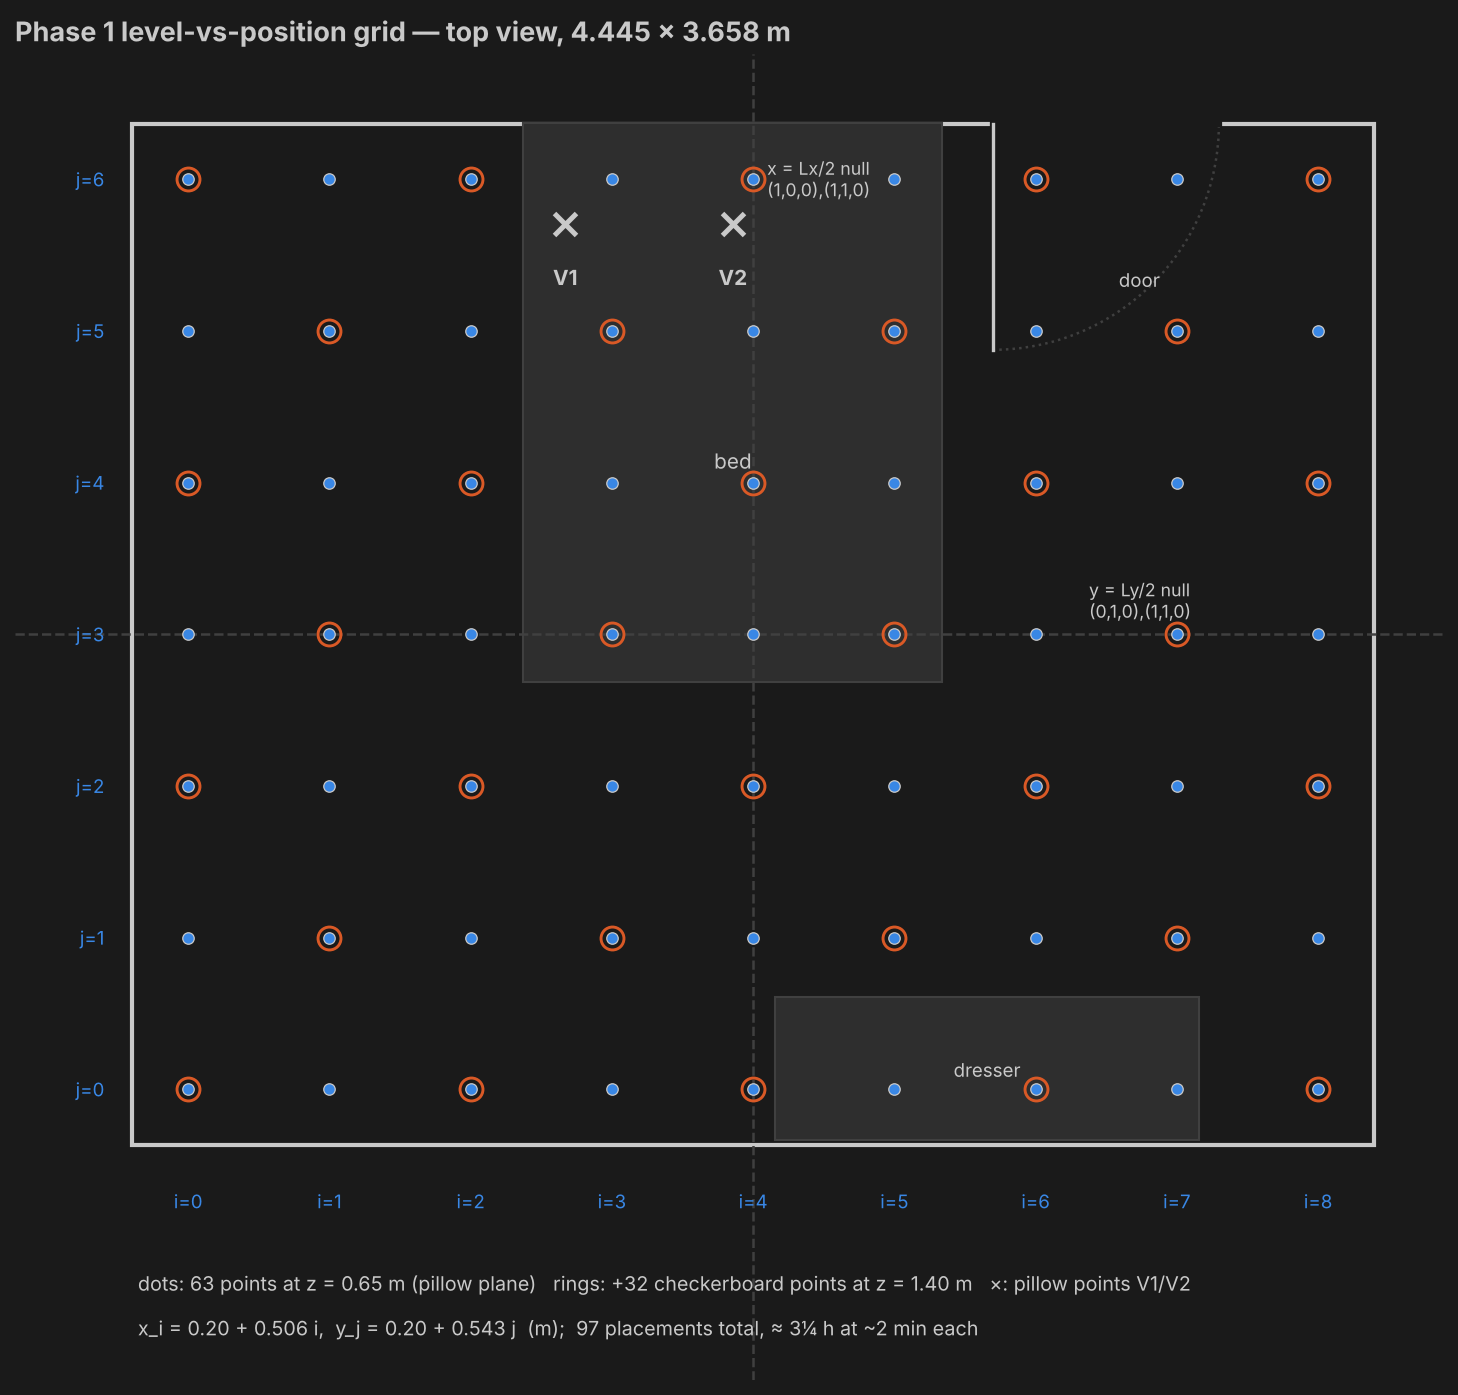
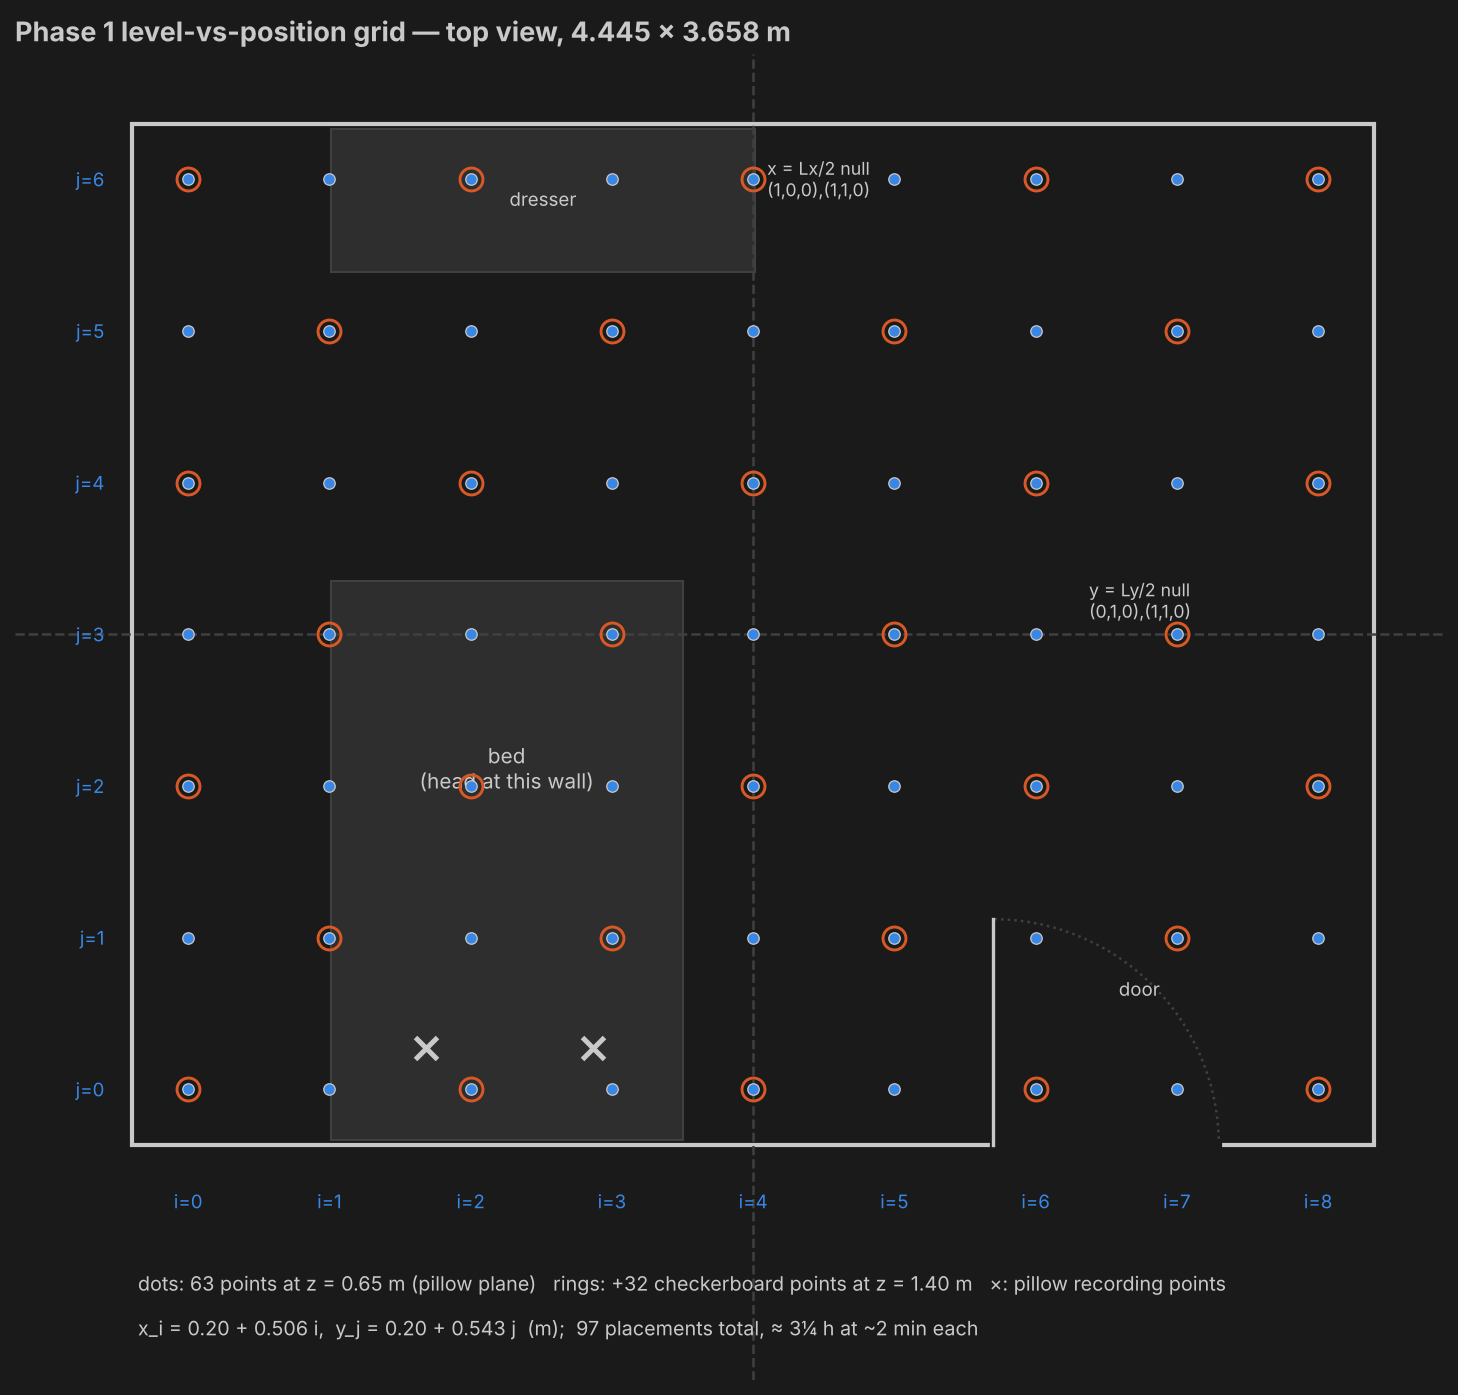
Correct furniture and door on the measurement grid
Per Madi: bed headboard at the y=0 wall spanning i=1 to ~i=3.5, dresser
at the y=Ly wall spanning i=1 to i=4, door on the y=0 wall at i=6..i=7.
Pillow recording points moved to the actual bed head; manifest updated.
This mirrors layout.qmd / room_layout.py in y -- the site layout is left
untouched pending the orientation question.

Claude-Session: https://claude.ai/code/session_016Kdn8B1reQt22sCKZBCnQa

diff --git a/scripts/measurement_grid.py b/scripts/measurement_grid.py
@@ -27,8 +27,8 @@ gives ~3 points per half-wavelength along x (Lx/3 = 1.48 m) and y, well
 inside the ~0.74 m Nyquist bound for nx = 3.
 
 Placements: the full 9x7 = 63 points at z = 0.65 m, a 32-point
-checkerboard ((i+j) even) at z = 1.40 m, plus the two pillow points
-V1/V2 -- 97 single-mic placements, ~3h15 at ~2 min each, splittable by
+checkerboard ((i+j) even) at z = 1.40 m, plus the two pillow recording
+points -- 97 single-mic placements, ~3h15 at ~2 min each, splittable by
 height pass.
 """
 import csv
@@ -49,13 +49,19 @@ DX = (LX - 2 * DELTA) / (NX - 1)
 DY = (LY - 2 * DELTA) / (NY - 1)
 HEIGHTS = (0.65, 1.40)         # z_k (m): pillow plane, near-null plane
 
-# pillow virtual points V1/V2 (layout.qmd / scripts/room_layout.py)
-PILLOWS = {"V1": (1.55, 3.30, 0.65), "V2": (2.15, 3.30, 0.65)}
+# Furniture per Madi (2026-10-17): bed headboard at the y = 0 wall
+# spanning i=1 to ~i=3.5; dresser at the y = Ly wall spanning i=1 to i=4;
+# door on the y = 0 wall spanning i=6..i=7. NOTE: this mirrors layout.qmd /
+# scripts/room_layout.py (bed head at y = Ly there) -- reconcile the site
+# layout once the orientation question is settled.
+BED = (0.71, 0.02, 1.26, 2.00)        # x, y, w, h
+DRESSER = (0.71, LY - 0.53, 1.52, 0.51)
 
-# door: per Madi (2026-10-17) it spans roughly the i=6..i=7 columns
-# (x ~ 3.2-3.7 m). The y = 0 stretch there is the dresser, so the door is
-# drawn on the y = Ly wall: 0.81 m leaf centred on that span, hinge at the
-# left jamb, swinging inward.
+# pillow recording points at the actual bed head (y = 0 wall)
+PILLOWS = {"left": (1.05, 0.35, 0.65), "right": (1.65, 0.35, 0.65)}
+
+# door on the y = 0 wall: 0.81 m leaf centred on the i=6..i=7 span,
+# hinge at the left jamb, swinging inward.
 DOOR_HINGE, DOOR_W = 3.08, 0.81
 
 
@@ -74,9 +80,9 @@ def write_manifest(path):
         w = csv.writer(fh)
         w.writerow(["file", "tag", "x", "y", "z", "cal_file", "notes"])
         for name, (x, y, z) in PILLOWS.items():
-            w.writerow([f"pillow-{name.lower()}.wav", "pillow",
+            w.writerow([f"pillow-{name}.wav", "pillow",
                         f"{x:.3f}", f"{y:.3f}", f"{z:.2f}",
-                        "umik1-SERIAL.txt", f"pillow point {name}"])
+                        "umik1-SERIAL.txt", f"{name} pillow"])
         for i, j, k, x, y, z in grid_points():
             w.writerow([f"grid-i{i}j{j}-z{int(round(z * 100)):03d}.wav",
                         "grid", f"{x:.3f}", f"{y:.3f}", f"{z:.2f}",
@@ -89,22 +95,21 @@ def draw(path):
     ax.set_facecolor(BG)
     ax.add_patch(Rectangle((0, 0), LX, LY, fill=False, ec=INK, lw=2))
 
-    bed = Rectangle((1.40, 1.66), 1.5, 2.0, fc=SOFT, ec=GRID, lw=1)
-    dresser = Rectangle((2.30, 0.02), 1.52, 0.51, fc=SOFT, ec=GRID, lw=1)
-    ax.add_patch(bed)
-    ax.add_patch(dresser)
-    ax.text(2.15, 2.45, "bed", ha="center", va="center", color=INK,
-            fontsize=10)
-    ax.text(3.06, 0.27, "dresser", ha="center", va="center", color=INK,
-            fontsize=9)
+    ax.add_patch(Rectangle(BED[:2], BED[2], BED[3], fc=SOFT, ec=GRID, lw=1))
+    ax.add_patch(Rectangle(DRESSER[:2], DRESSER[2], DRESSER[3], fc=SOFT,
+                           ec=GRID, lw=1))
+    ax.text(BED[0] + BED[2] / 2, 1.35, "bed\n(head at this wall)",
+            ha="center", va="center", color=INK, fontsize=10)
+    ax.text(DRESSER[0] + DRESSER[2] / 2, LY - 0.27, "dresser", ha="center",
+            va="center", color=INK, fontsize=9)
 
-    # door on the y = Ly wall, spanning roughly the i=6..i=7 columns
-    ax.plot([DOOR_HINGE, DOOR_HINGE + DOOR_W], [LY, LY], color=BG, lw=3,
+    # door on the y = 0 wall, spanning roughly the i=6..i=7 columns
+    ax.plot([DOOR_HINGE, DOOR_HINGE + DOOR_W], [0, 0], color=BG, lw=3,
             zorder=2)
-    ax.plot([DOOR_HINGE, DOOR_HINGE], [LY - DOOR_W, LY], color=INK, lw=1.6)
-    ax.add_patch(Arc((DOOR_HINGE, LY), 2 * DOOR_W, 2 * DOOR_W, angle=0,
-                     theta1=270, theta2=360, ec=GRID, ls=":", lw=1.2))
-    ax.text(DOOR_HINGE + DOOR_W / 2 + 0.12, LY - 0.56, "door", ha="center",
+    ax.plot([DOOR_HINGE, DOOR_HINGE], [0, DOOR_W], color=INK, lw=1.6)
+    ax.add_patch(Arc((DOOR_HINGE, 0), 2 * DOOR_W, 2 * DOOR_W, angle=0,
+                     theta1=0, theta2=90, ec=GRID, ls=":", lw=1.2))
+    ax.text(DOOR_HINGE + DOOR_W / 2 + 0.12, 0.56, "door", ha="center",
             va="center", color=INK, fontsize=9)
 
     # predicted null planes the grid lines land on
@@ -124,8 +129,6 @@ def draw(path):
                     zorder=3)
     for name, (x, y, _) in PILLOWS.items():
         ax.plot([x], [y], "x", ms=11, color=INK, mew=2.4, zorder=4)
-        ax.annotate(name, xy=(x, y), xytext=(x, y - 0.22), ha="center",
-                    color=INK, fontsize=10, fontweight="bold")
 
     for i in range(NX):
         ax.text(DELTA + i * DX, -0.16, f"i={i}", ha="center", va="top",
@@ -137,7 +140,7 @@ def draw(path):
     ax.text(0.02, -0.52,
             "dots: 63 points at z = 0.65 m (pillow plane)   "
             "rings: +32 checkerboard points at z = 1.40 m   "
-            "×: pillow points V1/V2", color=INK, fontsize=9.5)
+            "×: pillow recording points", color=INK, fontsize=9.5)
     ax.text(0.02, -0.68,
             f"x_i = 0.20 + {DX:.3f} i,  y_j = 0.20 + {DY:.3f} j  (m);  "
             "97 placements total, ≈ 3¼ h at ~2 min each",
